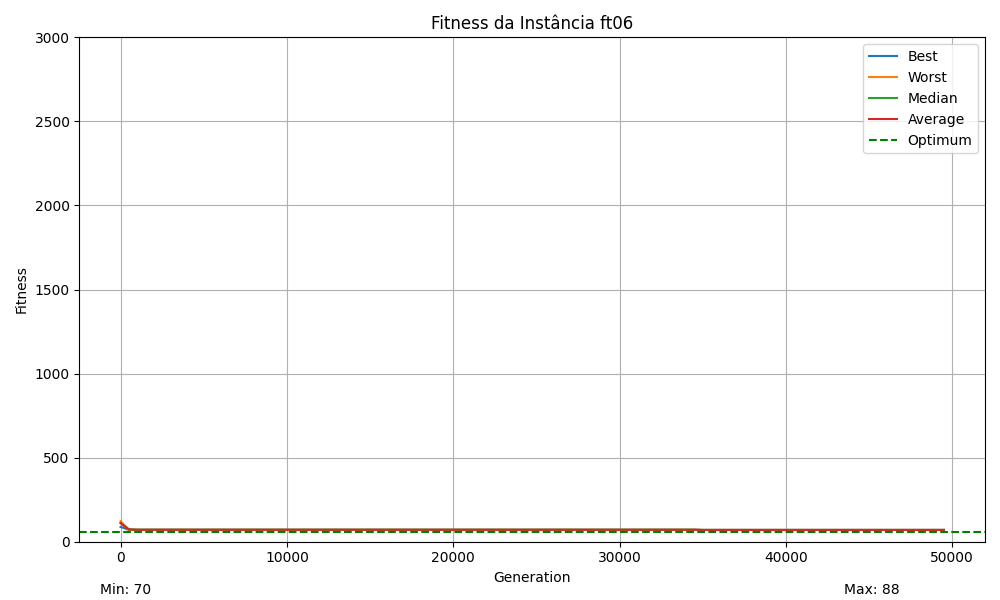
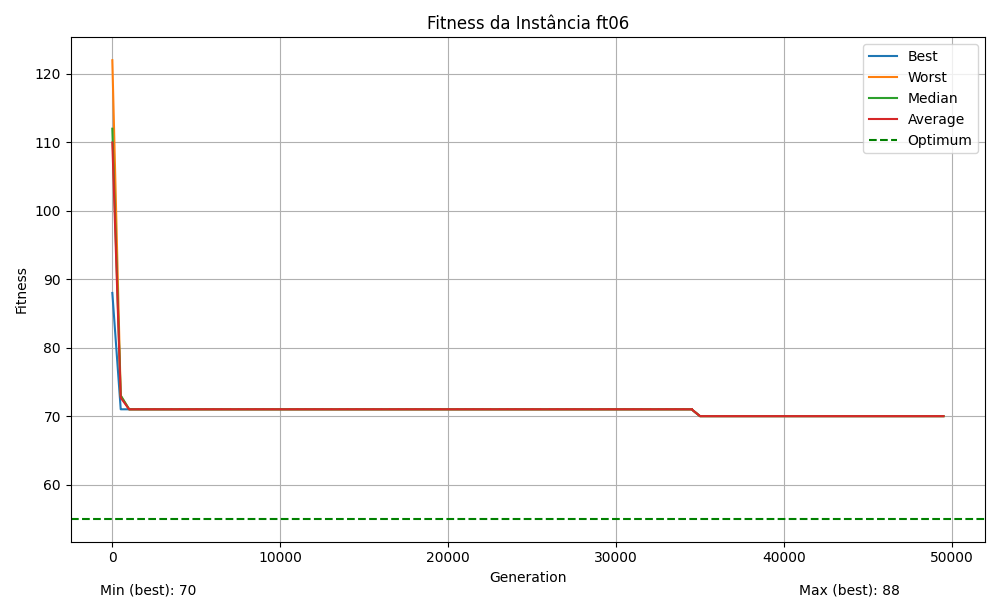
melhora imagens_02

diff --git a/main.py b/main.py
@@ -57,15 +57,14 @@ def plot_fitness(csv_file, json_file, output):
     # Adiciona melhor e pior fitness ao gráfico
     min_fitness = df["best"].min()
     max_fitness = df["best"].max()
-    plt.figtext(0.1, 0.01, f"Min: {min_fitness}", ha="left", fontsize=10)
-    plt.figtext(0.9, 0.01, f"Max: {max_fitness}", ha="right", fontsize=10)
+    plt.figtext(0.1, 0.01, f"Min (best): {min_fitness}", ha="left", fontsize=10)
+    plt.figtext(0.9, 0.01, f"Max (best): {max_fitness}", ha="right", fontsize=10)
 
     plt.title(f"Fitness da Instância {instance_name}")
     plt.xlabel("Generation")
     plt.ylabel("Fitness")
     plt.legend()
     plt.grid(True)
-    plt.ylim(0, 3000)
 
     plt.tight_layout()
 
